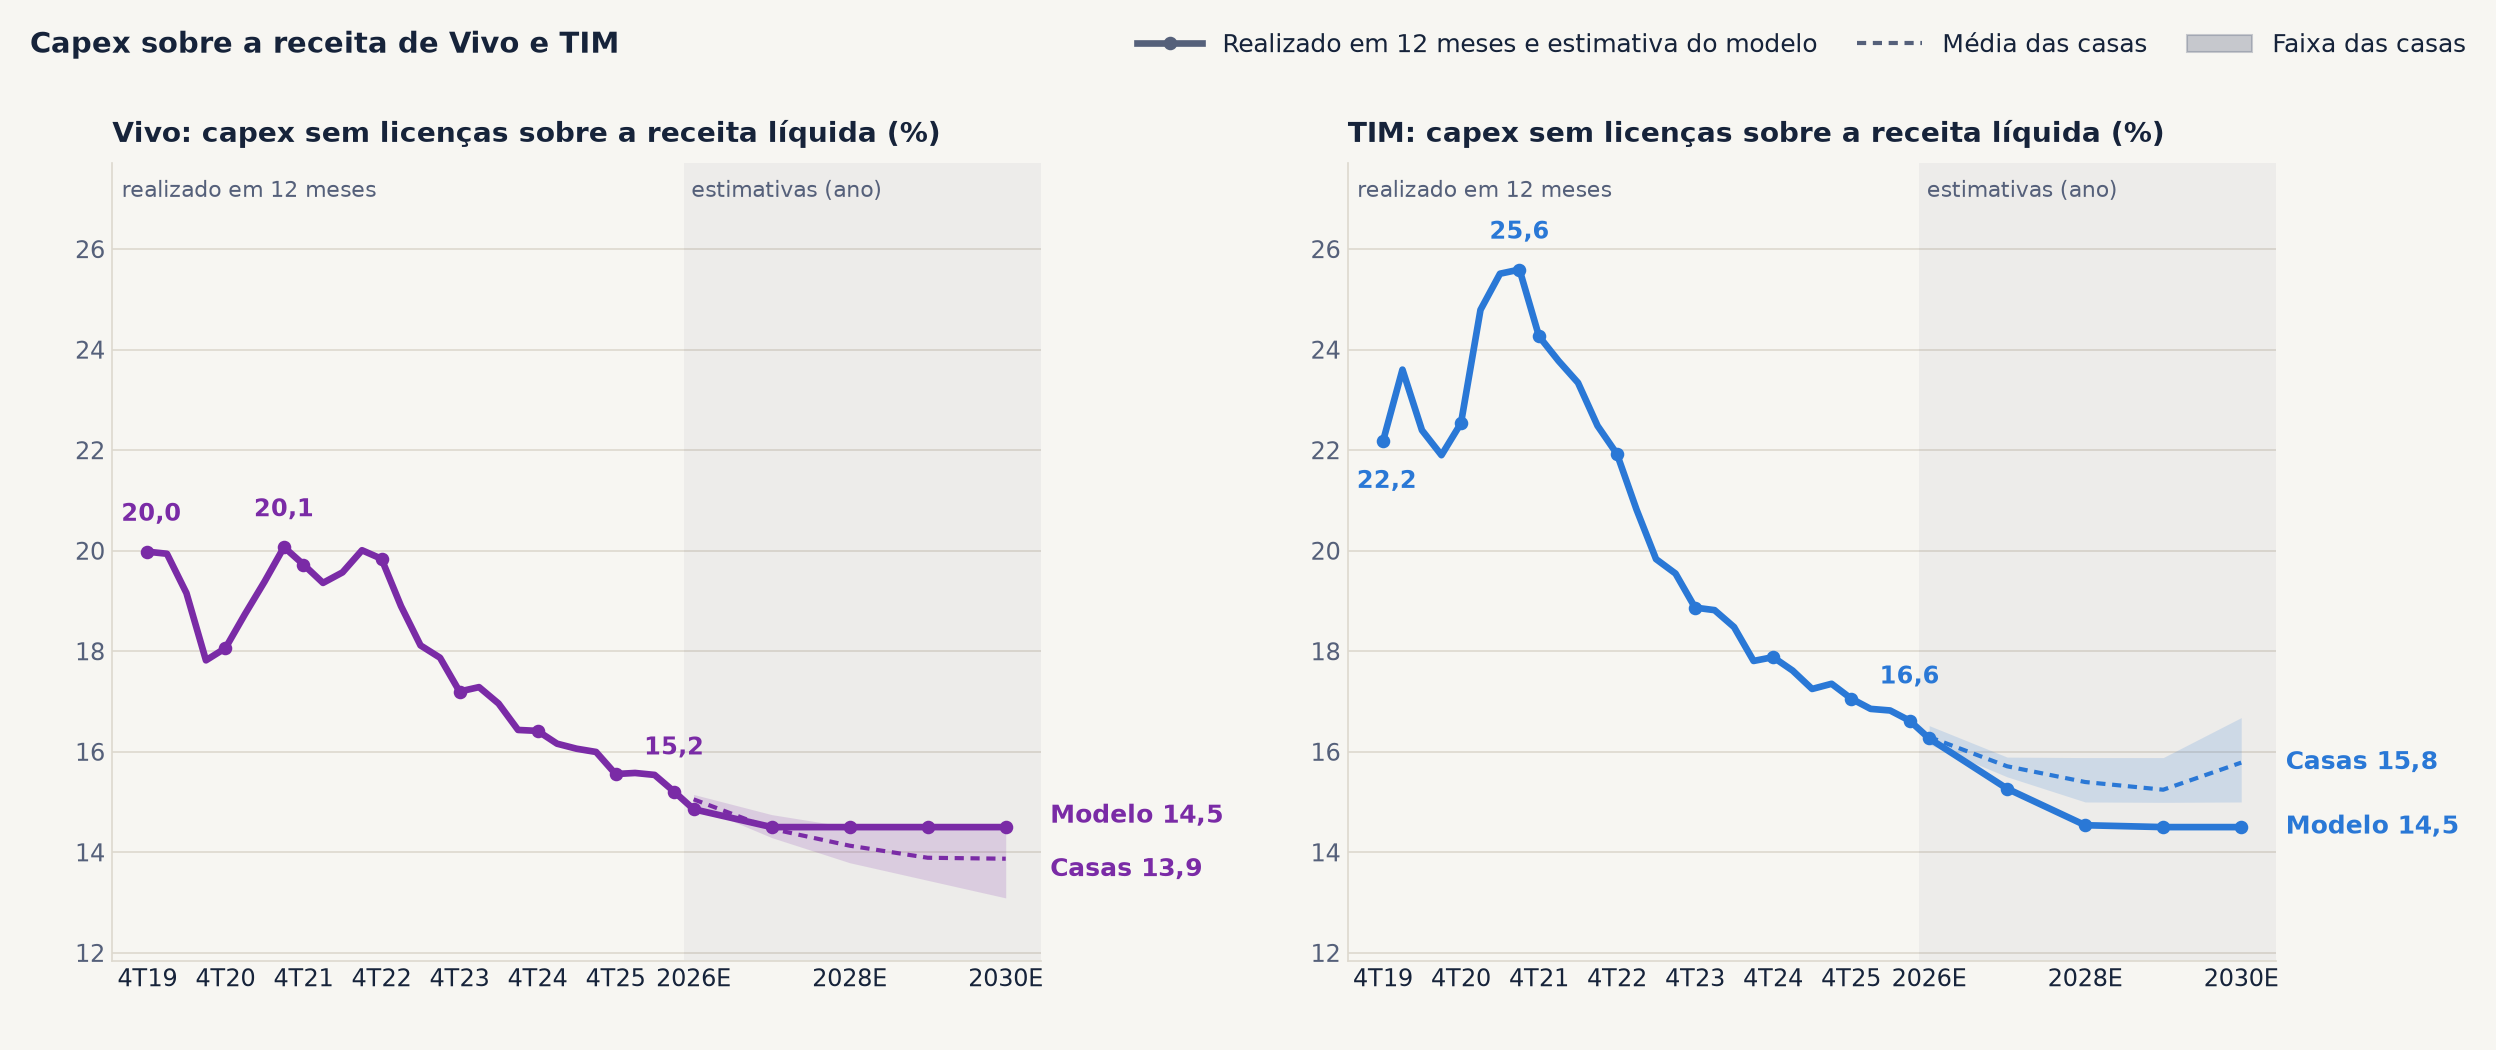
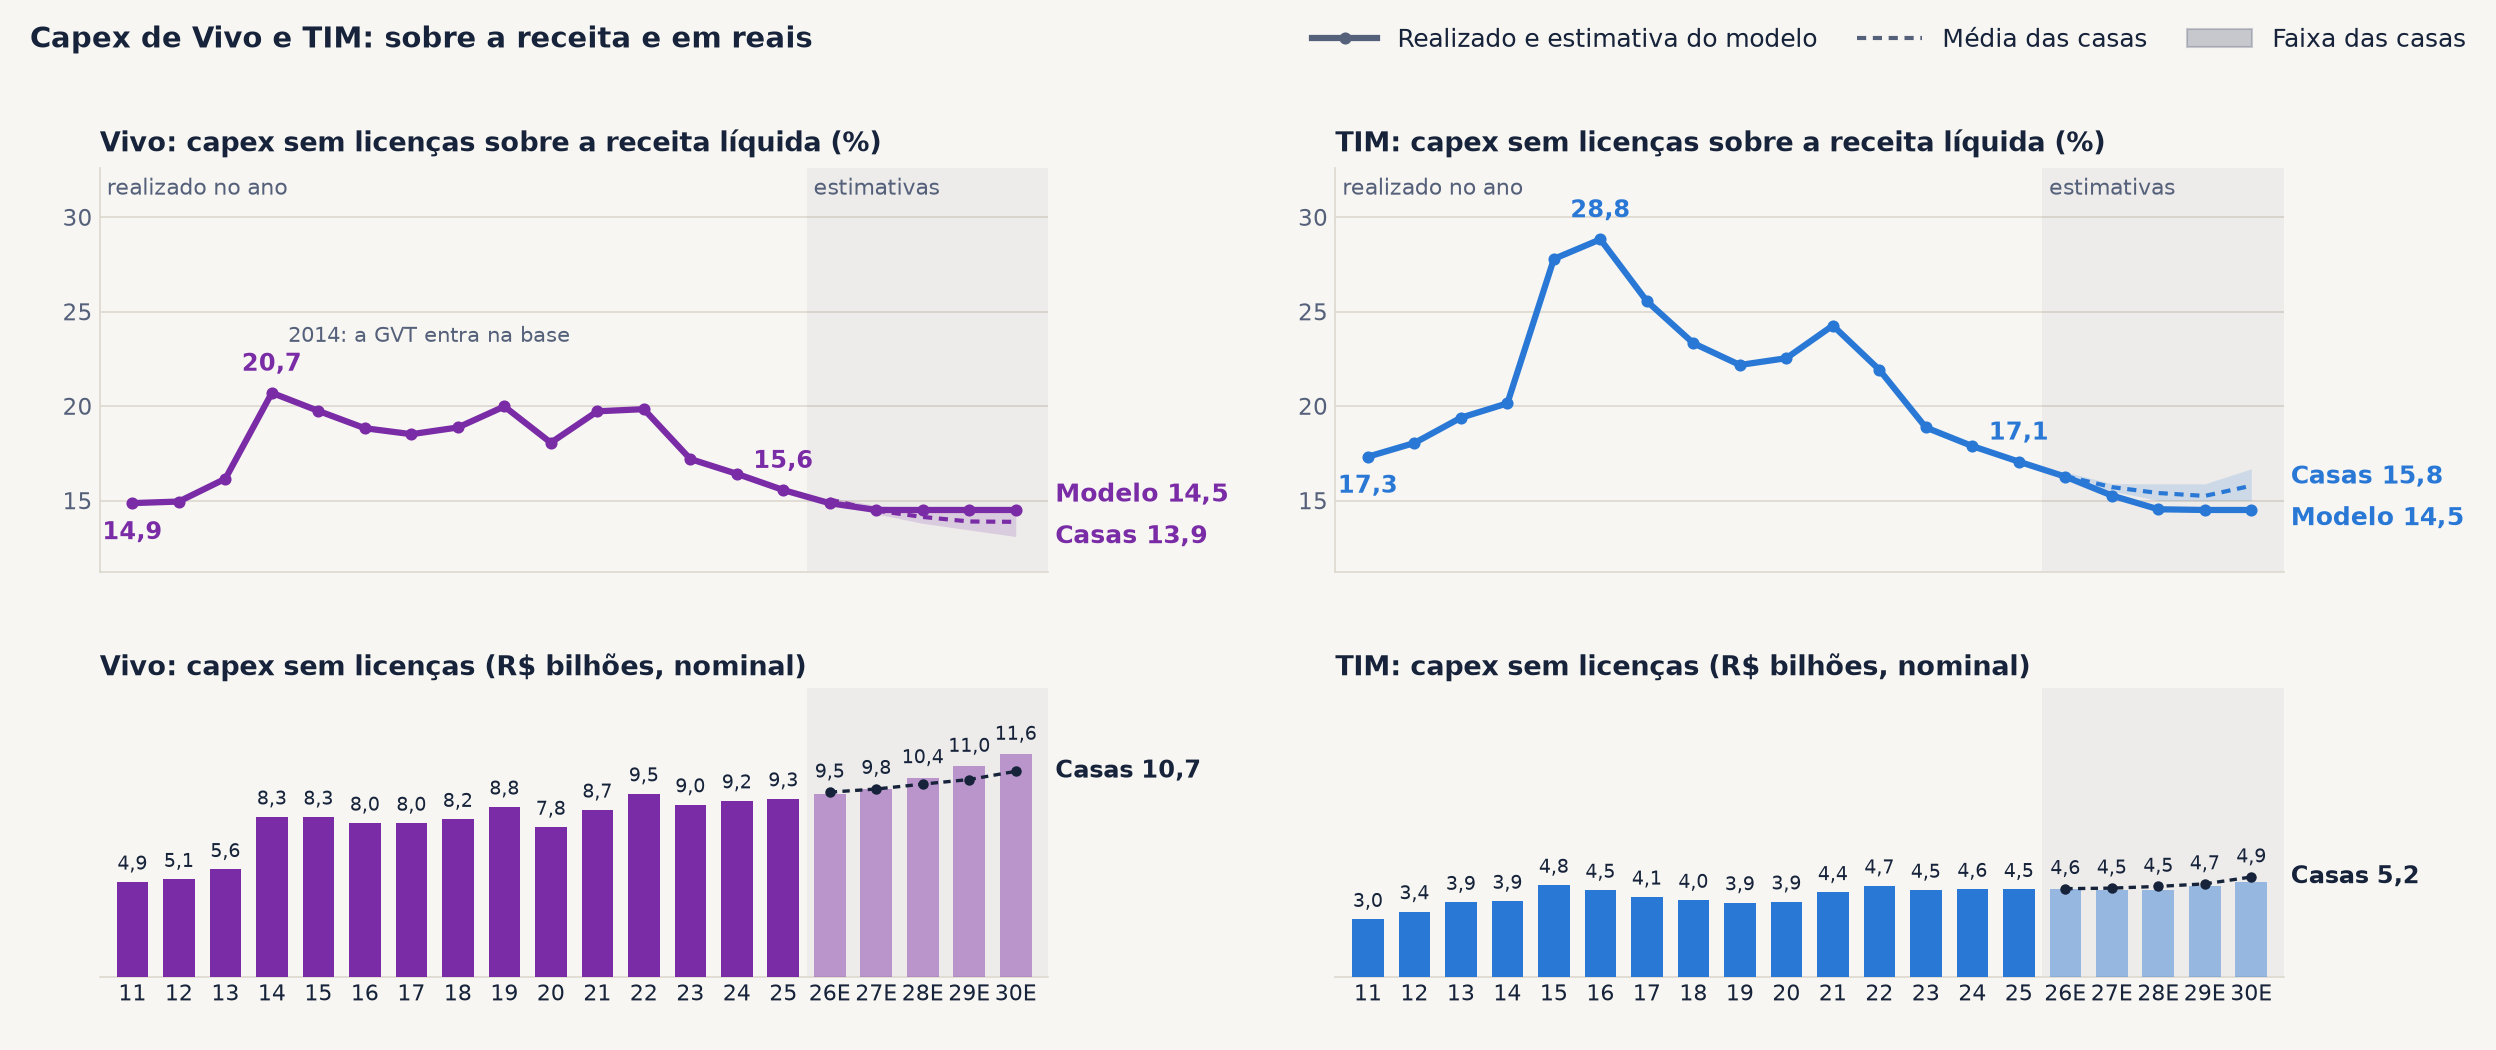
v4.7 - 24/11/2026 21:50 - slide 10: ciclo de capex desde 2011 e capex nominal
Serie anual de 2011 a 2025 mais 2026E-2030E. Em cima, capex sem licencas
sobre a receita; embaixo, capex nominal em R$ bilhoes. Vivo e TIM na mesma
escala, modelo contra as casas.

diff --git a/index.html b/index.html
@@ -40,7 +40,7 @@ h1, h2, h3 { font-family:'Space Grotesk', Arial, sans-serif; }
 <div id="palco">
 <section id="capa" class="capa" data-transition="fade">
 <div>
-<p class="chip">v4.6 · 24/11/2026 21:43</p>
+<p class="chip">v4.7 · 24/11/2026 21:50</p>
 </div>
 <div>
 <h1>Telecom Brasil: Vivo e TIM</h1>
@@ -105,11 +105,11 @@ h1, h2, h3 { font-family:'Space Grotesk', Arial, sans-serif; }
 <aside>Vivo: 9,7% em 2025; o modelo projeta 6,6% em 2026E e 2027E e 5,7% de 2028E em diante. Fica abaixo das casas em 2026E (7,4% a 8,3%), dentro em 2027E e 2028E e acima em 2029E e 2030E (3,0% a 5,3% em 2030E). TIM: 6,9% em 2025; o modelo projeta 6,3%, 5,8%, 6,1%, 4,9% e 4,2%. Dentro da faixa em 2026E e 2027E e acima de 2028E em diante (4,2% a 4,7% em 2028E; 3,7% a 4,1% em 2030E).</aside>
 </section>
 <section id="capex" data-transition="fade">
-<p class="olho">4 · CAPEX SOBRE A RECEITA: MODELO CONTRA AS CASAS</p>
-<h2 class="titulo">Capex sobre a receita cai de 20,0% para 15,2% na Vivo e de 22,2% para 16,6% na TIM desde 2019; o modelo leva as duas a 14,5%, 1,3 ponto abaixo das casas na TIM</h2>
-<img class="graf" src="img/v7_capex.png" alt="Dois gráficos na mesma escala, um da Vivo e um da TIM, com o capex sem licenças sobre a receita líquida em 12 meses do 4T19 ao 3T26 e as estimativas anuais de 2026 a 2030: linha cheia para o modelo, tracejada para a média das casas e a faixa das casas do mínimo ao máximo">
-<p class="fonte">Fonte: planilhas de RI (capex sem licenças e, na Vivo, sem IFRS 16) e modelos de 24/11/2026. Casas: Itaú BBA, BBI, BTG, Santander e, na Vivo, UBS. UBS só até 2028E.</p>
-<aside>Vivo, capex sem licenças sobre a receita em 12 meses: 20,0% em 2019, 18,1% em 2020, 19,7% em 2021, 19,8% em 2022, 17,2% em 2023, 16,4% em 2024, 15,6% em 2025 e 15,2% no 3T26 (R$ 9,6 bilhões em 12 meses). O capex ficou perto de R$ 9 bilhões desde 2019 (R$ 8,8 bilhões em 2019, R$ 9,3 bilhões em 2025) enquanto a receita cresceu 42%: a queda da razão é receita, não corte de investimento. Modelo: 14,9% em 2026E e 14,5% de 2027E a 2030E. Casas: média de 15,1% em 2026E, 14,5% em 2027E, 14,1% em 2028E e 13,9% em 2029E e 2030E, com faixa de 13,1% (Itaú BBA) a 14,6% (BBI) em 2030E; o modelo fica na média até 2027E e 0,6 ponto acima em 2030E, no topo da faixa. TIM: 22,2% em 2019, 22,5% em 2020, 24,3% em 2021 (pico de 25,6% no 3T21), 21,9% em 2022, 18,9% em 2023, 17,9% em 2024, 17,1% em 2025 e 16,6% no 3T26 (R$ 4,6 bilhões em 12 meses). Modelo: 16,3% em 2026E, 15,3% em 2027E e 14,5% de 2028E a 2030E, com capex de R$ 4,5 bilhões parado em 2027E e 2028E. Casas: média de 16,3%, 15,7%, 15,4%, 15,2% e 15,8%, com faixa de 15,0% (Santander) a 16,7% (BBI) em 2030E; o modelo fica 0,4 ponto abaixo da média em 2027E, 0,9 em 2028E e 1,3 em 2030E, abaixo da casa mais baixa de 2028E em diante. O realizado é o capex sem licenças que as companhias publicam; na TIM é igual à linha do modelo (fora 2021, ano do leilão do 5G, em que o modelo tem R$ 5,3 bilhões com a licença e a companhia R$ 4,4 bilhões sem). Na Vivo a linha de capex do modelo não é igual ao capex sem licenças do RI no realizado (R$ 9,46 bilhões contra R$ 9,27 bilhões em 2025), por isso o histórico do gráfico vem do RI. Este slide não inclui a emissão de arrendamento: o arrendamento da Vivo subiu de 5,4% para 9,1% da receita no mesmo período em que o capex caiu 4,8 pontos. Os pontos realizados são o acumulado em quatro trimestres; os estimados são o ano.</aside>
+<p class="olho">4 · CAPEX: SOBRE A RECEITA E EM REAIS, MODELO CONTRA AS CASAS</p>
+<h2 class="titulo">Ciclo de capex: pico de 20,7% da receita na Vivo (2014) e 28,8% na TIM (2016), hoje 15,6% e 17,1%; em reais está quase parado desde 2015 e o modelo vai a 14,5%</h2>
+<img class="graf" src="img/v7_capex.png" alt="Quatro gráficos de 2011 a 2030 estimado. Em cima, na mesma escala, o capex sem licenças sobre a receita líquida de Vivo e TIM, com a estimativa do modelo, a média das casas e a faixa das casas. Embaixo, na mesma escala, o capex sem licenças em bilhões de reais nominais por ano, em barras, com a estimativa do modelo e a média das casas">
+<p class="fonte">Fonte: planilhas de RI, releases e modelos de 24/11/2026. Capex sem licenças; Vivo com a GVT de 2014 em diante (pro forma). Casas: Itaú BBA, BBI, BTG, Santander e, na Vivo, UBS. UBS só até 2028E.</p>
+<aside>Capex sem licenças sobre a receita. Vivo: 14,9% em 2011 e 2012, 16,2% em 2013, pico de 20,7% em 2014 (ano em que a GVT entra na base, pro forma), 19,7% em 2015, 18,8% em 2016, 18,5% em 2017, 18,9% em 2018, 20,0% em 2019, 18,1% em 2020, 19,7% em 2021, 19,8% em 2022, 17,2% em 2023, 16,4% em 2024 e 15,6% em 2025. TIM: 17,3% em 2011, 18,0% em 2012, 19,4% em 2013, 20,1% em 2014, 27,8% em 2015, pico de 28,8% em 2016, 25,6% em 2017, 23,3% em 2018, 22,2% em 2019, 22,5% em 2020, 24,3% em 2021, 21,9% em 2022, 18,9% em 2023, 17,9% em 2024 e 17,1% em 2025. Dois ciclos: a rede 4G em 2014-2016 (na TIM com a receita caindo de R$ 20,0 bilhões em 2013 para R$ 15,6 bilhões em 2016) e o 5G com fibra em 2019-2022. Em reais nominais: Vivo de R$ 4,9 bilhões em 2011 para R$ 8,3 bilhões em 2014 e 2015, R$ 8,8 bilhões em 2019, R$ 9,5 bilhões em 2022 e R$ 9,3 bilhões em 2025; TIM de R$ 3,0 bilhões em 2011 para R$ 4,8 bilhões em 2015, R$ 3,9 bilhões em 2019, R$ 4,7 bilhões em 2022 e R$ 4,5 bilhões em 2025. Em dez anos (2015 a 2025) o capex nominal sobe 11% na Vivo e cai 5% na TIM, com a receita subindo 41% e 55%: a queda da razão desde 2022 é receita, não corte. Em reais de 2025 o capex cai de R$ 14,1 bilhões para R$ 9,3 bilhões na Vivo e de R$ 8,1 bilhões para R$ 4,5 bilhões na TIM entre 2015 e 2025. Estimativas. Vivo: o modelo põe 14,9% em 2026E e 14,5% de 2027E a 2030E, com o capex subindo de R$ 9,5 bilhões para R$ 11,6 bilhões; casas em 15,1%, 14,5%, 14,1%, 13,9% e 13,9% (faixa de 13,1% a 14,6% em 2030E), com R$ 10,7 bilhões em 2030E; o modelo investe R$ 0,9 bilhão a mais que a média das casas em 2030E. TIM: o modelo põe 16,3%, 15,3% e 14,5% de 2028E a 2030E, com o capex em R$ 4,5 bilhões em 2027E e 2028E e R$ 4,9 bilhões em 2030E; casas em 16,3%, 15,7%, 15,4%, 15,2% e 15,8% (faixa de 15,0% a 16,7% em 2030E), com R$ 5,2 bilhões em 2030E; o modelo fica 1,3 ponto abaixo da média e abaixo da casa mais baixa de 2028E em diante. Os 14,5% do modelo são o menor nível das duas séries desde 2011 (a Vivo teve 14,9% em 2011 e 2012, antes da GVT). Fontes do realizado: Vivo pelo modelo até 2018 e pelo capex sem licenças da planilha de RI de 2019 em diante; TIM pelo modelo, com o capex orgânico de 2012 e 2014 dos releases e 2021 pelo capex sem licenças da companhia (R$ 4,38 bilhões). Este slide não inclui a emissão de arrendamento.</aside>
 </section>
 <section id="arrend" data-transition="fade">
 <p class="olho">4A · EMISSÃO DE ARRENDAMENTO × PAGAMENTO DE PRINCIPAL</p>

diff --git a/README.md b/README.md
@@ -1,3 +1,3 @@
 # Telecom Brasil: Vivo e TIM
 
-Deck de telecom (v4.6 · 24/11/2026 21:43): o setor contra a inflação e o PIB, receita, margem, EBITDA, capex e arrendamento, lucro, payout, Fistel e valuation de Vivo e TIM.
+Deck de telecom (v4.7 · 24/11/2026 21:50): o setor contra a inflação e o PIB, receita, margem, EBITDA, capex e arrendamento, lucro, payout, Fistel e valuation de Vivo e TIM.
